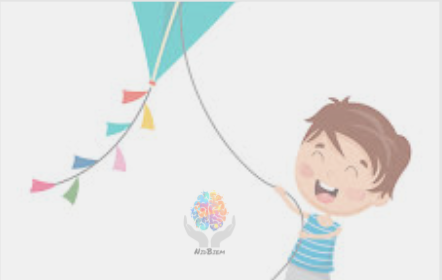
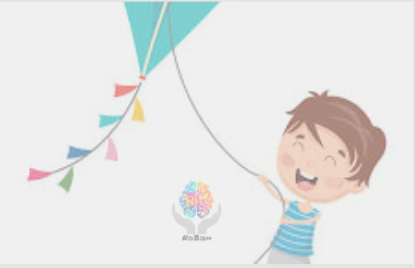
Responsividade Pronta

diff --git a/loja.html b/loja.html
@@ -4,16 +4,21 @@
     <meta charset="UTF-8">
     <meta name="viewport" content="width=device-width, initial-scale=1.0">
     <link rel="stylesheet" href="css/style.css">
+    <link href="https://fonts.googleapis.com/css?family=Lobster&display=swap" rel="stylesheet">
+    <style>
+        @import url('https://fonts.googleapis.com/css?family=Lobster&display=swap');
+        </style>
     <title>Loja</title>
 </head>
-<body>
+<body class="rosa">
     <header>
         
     </header>
     <main>
         <div class="Loja">
             <div class="ljimg">
-        <img src="images/Capturar.PNG" alt="Banner de Uma criança Brincando com uma PiPa">
+        <h2>Compre Nossos Produtos!</h2>
+        <h2>Ajude Crianças a combater o bullying!</h2>
     </div>
         <div class="Carrinho">
             <img src="images/carrinho-inteligente.png" alt="Carrinho de Compras">
@@ -28,6 +33,21 @@
         <div class="Abadaloja">
             <div id="overflowTest">
                 <img src="images/Capturar2.PNG" alt="Imagem de Produto da Empresa">
+                <img src="images/Capturar3.PNG" alt="Imagem de Produto da Empresa"><img src="images/Capturar2.PNG" alt="Imagem de Produto da Empresa">
+                <img src="images/Capturar3.PNG" alt="Imagem de Produto da Empresa"><img src="images/Capturar2.PNG" alt="Imagem de Produto da Empresa">
+                <img src="images/Capturar3.PNG" alt="Imagem de Produto da Empresa"><img src="images/Capturar2.PNG" alt="Imagem de Produto da Empresa">
+                <img src="images/Capturar3.PNG" alt="Imagem de Produto da Empresa"><img src="images/Capturar2.PNG" alt="Imagem de Produto da Empresa">
+                <img src="images/Capturar3.PNG" alt="Imagem de Produto da Empresa"><img src="images/Capturar2.PNG" alt="Imagem de Produto da Empresa">
+                <img src="images/Capturar3.PNG" alt="Imagem de Produto da Empresa">
+                <img src="images/Capturar3.PNG" alt="Imagem de Produto da Empresa"><img src="images/Capturar2.PNG" alt="Imagem de Produto da Empresa">
+                <img src="images/Capturar3.PNG" alt="Imagem de Produto da Empresa"><img src="images/Capturar2.PNG" alt="Imagem de Produto da Empresa">
+                <img src="images/Capturar3.PNG" alt="Imagem de Produto da Empresa"><img src="images/Capturar2.PNG" alt="Imagem de Produto da Empresa">
+                <img src="images/Capturar3.PNG" alt="Imagem de Produto da Empresa"> <img src="images/Capturar3.PNG" alt="Imagem de Produto da Empresa"><img src="images/Capturar2.PNG" alt="Imagem de Produto da Empresa">
+                <img src="images/Capturar3.PNG" alt="Imagem de Produto da Empresa"><img src="images/Capturar2.PNG" alt="Imagem de Produto da Empresa">
+                <img src="images/Capturar3.PNG" alt="Imagem de Produto da Empresa"><img src="images/Capturar2.PNG" alt="Imagem de Produto da Empresa">
+                <img src="images/Capturar3.PNG" alt="Imagem de Produto da Empresa"> <img src="images/Capturar3.PNG" alt="Imagem de Produto da Empresa"><img src="images/Capturar2.PNG" alt="Imagem de Produto da Empresa">
+                <img src="images/Capturar3.PNG" alt="Imagem de Produto da Empresa"><img src="images/Capturar2.PNG" alt="Imagem de Produto da Empresa">
+                <img src="images/Capturar3.PNG" alt="Imagem de Produto da Empresa"><img src="images/Capturar2.PNG" alt="Imagem de Produto da Empresa"><img src="images/Capturar3.PNG" alt="Imagem de Produto da Empresa"><img src="images/Capturar2.PNG" alt="Imagem de Produto da Empresa"><img src="images/Capturar3.PNG" alt="Imagem de Produto da Empresa"><img src="images/Capturar2.PNG" alt="Imagem de Produto da Empresa"><img src="images/Capturar3.PNG" alt="Imagem de Produto da Empresa"><img src="images/Capturar2.PNG" alt="Imagem de Produto da Empresa"><img src="images/Capturar3.PNG" alt="Imagem de Produto da Empresa"><img src="images/Capturar2.PNG" alt="Imagem de Produto da Empresa">   <img src="images/Capturar3.PNG" alt="Imagem de Produto da Empresa"><img src="images/Capturar2.PNG" alt="Imagem de Produto da Empresa"><img src="images/Capturar3.PNG" alt="Imagem de Produto da Empresa"><img src="images/Capturar2.PNG" alt="Imagem de Produto da Empresa"><img src="images/Capturar3.PNG" alt="Imagem de Produto da Empresa"><img src="images/Capturar2.PNG" alt="Imagem de Produto da Empresa"><img src="images/Capturar3.PNG" alt="Imagem de Produto da Empresa"><img src="images/Capturar2.PNG" alt="Imagem de Produto da Empresa"><img src="images/Capturar3.PNG" alt="Imagem de Produto da Empresa"><img src="images/Capturar2.PNG" alt="Imagem de Produto da Empresa">   <img src="images/Capturar3.PNG" alt="Imagem de Produto da Empresa"><img src="images/Capturar2.PNG" alt="Imagem de Produto da Empresa"><img src="images/Capturar3.PNG" alt="Imagem de Produto da Empresa"><img src="images/Capturar2.PNG" alt="Imagem de Produto da Empresa"><img src="images/Capturar3.PNG" alt="Imagem de Produto da Empresa"><img src="images/Capturar2.PNG" alt="Imagem de Produto da Empresa"><img src="images/Capturar3.PNG" alt="Imagem de Produto da Empresa"><img src="images/Capturar2.PNG" alt="Imagem de Produto da Empresa"><img src="images/Capturar3.PNG" alt="Imagem de Produto da Empresa"><img src="images/Capturar2.PNG" alt="Imagem de Produto da Empresa"><img src="images/Capturar3.PNG" alt="Imagem de Produto da Empresa"><img src="images/Capturar2.PNG" alt="Imagem de Produto da Empresa"><img src="images/Capturar3.PNG" alt="Imagem de Produto da Empresa"><img src="images/Capturar2.PNG" alt="Imagem de Produto da Empresa"><img src="images/Capturar2.PNG" alt="Imagem de Produto da Empresa">
                 <img src="images/Capturar3.PNG" alt="Imagem de Produto da Empresa"><img src="images/Capturar2.PNG" alt="Imagem de Produto da Empresa">
                 <img src="images/Capturar3.PNG" alt="Imagem de Produto da Empresa"><img src="images/Capturar2.PNG" alt="Imagem de Produto da Empresa">
                 <img src="images/Capturar3.PNG" alt="Imagem de Produto da Empresa"><img src="images/Capturar2.PNG" alt="Imagem de Produto da Empresa">

diff --git a/css/style.css b/css/style.css
@@ -1,57 +1,27 @@
 *{
     margin: 0;
     padding: 0;
+    font-family: 'Lobster', cursive;
 }
-
-.container{
-    display: flex;
-    width: 100%;
-    max-width: 465px;
-    margin: 0 auto;
-    background-color: #C8FCD8;
-    justify-content: space-evenly;
-}
-
-.Menu{
-    width: 100%;
-    max-width: 425px;
-    display: flex;
-    height: 136px;
-    align-items: center;
-    justify-content: center;
-}
-
-.Menu ul li{
-    list-style: none;
-}
-
-.Menu a{
-    text-decoration: none;
-    color: black;
-}
-
-.logo img{
-    width: 111px;
-    height: 113px;
-}
-
-.menu2 li{
-    list-style: none;
-}
-.menu2 a{
-    text-decoration: none;
-    color: black;
-}
-.Menu-2{
-    display: flex;
-    align-items: center;
-}
-
-.Loja{
+body{
     background-color:#FBE2FB;
-    height: 896px;
+    height: 100%;
     padding: 30px 0px;
 }
+.bannerdesenho{
+width: 100%;
+height: 270px;
+background-image: url(../images/Capturar4.PNG);
+align-items: center;
+justify-content: center;
+display: flex;
+background-position: center;
+background-size: cover ;
+}
+.bannerdesenho h1{
+    z-index: 999;
+}
+
 .Carrinho{
     display: flex;
     align-items: center;
@@ -66,11 +36,15 @@
     font-size: 31px;
     color: #040506
 }
+.rosa{
+    background-color: #FBE2FB;
+}
 
+body{
+    background-color: #C1F1FF;
+}
 .fundo{
     padding: 30px 0px;
-    height: 850px;
-    background-color: #C1F1FF;
 }
 
 .fundo img{
@@ -82,6 +56,7 @@
     font-size: 31px;
 }
 .desenho{
+    font-family: 'Lobster', cursive;
     display: flex;
     align-items: center;
     justify-content: center;
@@ -123,9 +98,20 @@
       width: 30px;
       height: 40px;
   }
+  .acessorios h1{
+    font-family: 'Lobster', cursive;
+  }
 
-  .ljimg img{
-      width: 465px;
+  .ljimg{
+      width: 100%;
+      height: 250px;
+      background-image: url(../images/Capturar.PNG);
+      display: flex;
+      flex-direction: column;
+      align-items: center;
+      justify-content: center;
+      background-position: center;
+      background-size: cover ;
   }
 
   .filtro img{
@@ -146,7 +132,7 @@
   }
 
   .texto h2{
-      font-size: 10px;
+      font-size: 12px;
   }
 
   /*desenho*/
@@ -178,3 +164,70 @@
   .alinhar{
       display: flex;
   }
+  .verde{
+      background-color: #C8FCD8;
+  }
+
+  /*Inicio Da Responsividade*/
+  /*Reponsividade: 800px*/
+  @media(min-width: 800px){
+      .bannerdesenho img{
+          width: 800px;
+          height: 300px;
+      }
+
+      .alinhar{
+          display: flex;
+          justify-content: center;
+          padding: 0px 100px;
+      }
+
+
+      .ljimg img{
+          width: 800px;
+          height: 300px;
+      }
+      #overflowTest {
+          width: 500px;
+          height: 200px;
+      }
+      .filtro img{
+          width: 60px;
+          height: 40px;
+      }
+      .Loja{
+          height: 800px;
+      }
+  }
+
+  /*Responsividade desktop*/
+
+  @media(min-width: 1200px){
+    #overflowTest {
+        width: 926px;
+        height: 582px;
+  }
+  .Abadaloja img{
+      width: 70px;
+      height: 92px;
+  }
+  .alinhar{
+      padding: 0px 280px;
+  }
+  .Carrinho h1{
+      font-size: 50px;
+  }
+  .ljimg h2{
+      font-size: 40px;
+  }
+}
+
+/*Responsividade 1920*/
+@media(min-width: 1920px){
+    .alinhar{
+        padding: 0px 600px;
+    }
+    .ljimg h2{
+        font-size: 50px;
+    }
+}

diff --git a/Desenho.html b/Desenho.html
@@ -5,12 +5,14 @@
     <meta name="viewport" content="width=device-width, initial-scale=1.0">
     <title>Desenho</title>
     <link rel="stylesheet" href="css/style.css">
-    <link rel="stylesheet" href="paint.js">
+    <link href="https://fonts.googleapis.com/css?family=Lobster&display=swap" rel="stylesheet">
     
 </head>
 <body>
     <main class="fundo">
-        <img src="images/Capturar4.PNG" alt="Banner de um garoto desenhando no papel">
+      <div class="bannerdesenho">
+        <h1>Use a sua criatividade e desenhe!</h1>
+      </div>
         <div class="desenho">
             <h2>Desenhe !</h2>
             <div>
@@ -23,11 +25,13 @@
                 <div class="hamburguer">
                 <img src="images/sanduiche2.PNG" alt="aba de Filtros">
             </div>
+            <div class="verde">
                 <div class="texto">
                     <h2>Ferramentas</h2>
                 </div>
                 <img src="images/pencils.PNG" alt="Lapis para colorir">
             </div>
+          </div>
   
         </div>
         <div id="paint-app"></div>

diff --git a/index.html b/index.html
@@ -5,6 +5,7 @@
     <meta name="viewport" content="width=device-width, initial-scale=1.0">
     <title>Infanto Juvenil</title>
     <link rel="stylesheet" href="style.css">
+    <link href="https://fonts.googleapis.com/css?family=Lobster&display=swap" rel="stylesheet">
 </head>
 <body>
     
